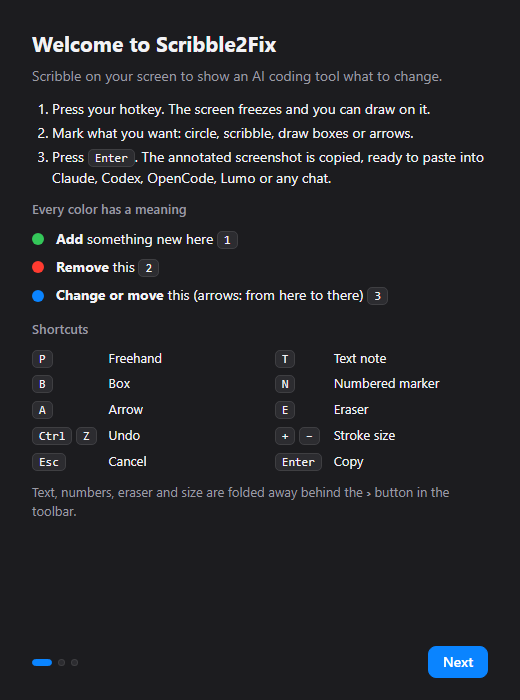
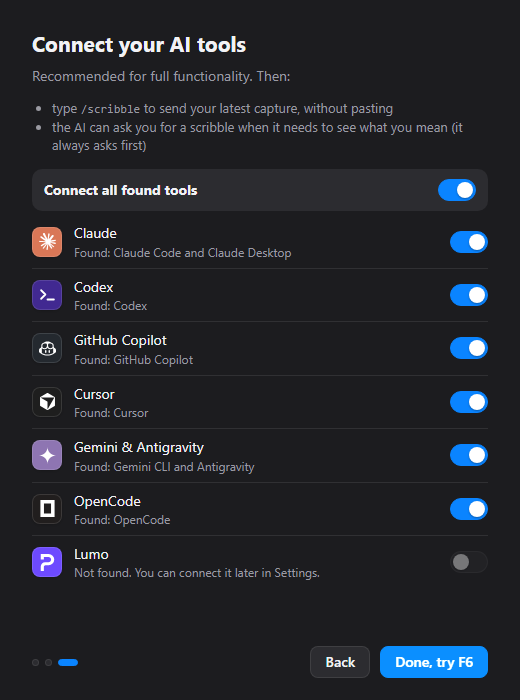
README: images for 1.1.0 (request card, onboarding tools, demo) [skip ci]

diff --git a/docs/mockups/chat.html b/docs/mockups/chat.html
@@ -42,7 +42,7 @@
       <div class="ai">Which buttons do you mean, and where should they go? I can open Scribble2Fix so you can just mark it. OK?</div>
       <div class="you">yes</div>
       <div class="tool"><b>scribble2fix</b> · request_scribble <span class="dim">("Mark the buttons you mean")</span>
-        <div class="out">Press F6 when you're ready…
+        <div class="out">Asked you on screen · you clicked Draw now and marked it
           <div class="got">
             <img src="../images/result.png" alt="">
             <div class="marks">

diff --git a/app/ui/onboarding.html b/app/ui/onboarding.html
@@ -41,7 +41,7 @@
   <ol>
     <li>Press your hotkey. The screen freezes and you can draw on it.</li>
     <li>Mark what you want: circle, scribble, draw boxes or arrows.</li>
-    <li>Press <kbd>Enter</kbd>. The annotated screenshot is copied, ready to paste into Claude, Codex, OpenCode, Lumo or any chat.</li>
+    <li>Press <kbd>Enter</kbd>. The annotated screenshot is copied, ready to paste into your AI tool or any chat.</li>
   </ol>
   <h2>Every color has a meaning</h2>
   <div class="colors">

diff --git a/docs/mockups/render.py b/docs/mockups/render.py
@@ -5,7 +5,7 @@ as the frozen screen, then the marks are drawn with scripted mouse and
 keyboard input, exactly like a user would.
 
 Writes: overlay.png (hero), demo.gif, result.png (the real export),
-tools.png, chat.png, onboarding.png.
+tools.png, chat.png, request.png (the AI request card), onboarding.png.
 
 Usage: python docs/mockups/render.py
 Needs: pip install playwright pillow && python -m playwright install chromium
@@ -39,6 +39,8 @@ window.__TAURI__ = {
       return ctx.getImageData(0, 0, img.width, img.height).data;
     }
     if (cmd === 'finish_capture') window.__export = args;
+    // The real window disappears here: show the screen as it is underneath.
+    if (cmd === 'hide_overlay') document.getElementById('mock-screen').style.display = 'block';
     return null;
   } },
   event: { listen: async (name, cb) => { if (name === 'capture') window.__capture = cb; } },
@@ -56,10 +58,13 @@ addEventListener('DOMContentLoaded', () => {
       padding: 11px 18px 11px 14px; border-radius: 999px; color: #fff; background: rgba(30,30,34,.9); border: 1px solid rgba(255,255,255,.12);
       box-shadow: 0 6px 20px rgba(0,0,0,.3); font: 14px/1.2 system-ui, "Segoe UI", sans-serif; white-space: nowrap; }
     #mock-toast i { width: 20px; height: 20px; border-radius: 50%; background: conic-gradient(#34c759 0 33%, #ff3b30 0 66%, #0a84ff 0);
-      -webkit-mask: radial-gradient(circle, transparent 5px, #000 5.5px); }`;
+      -webkit-mask: radial-gradient(circle, transparent 5px, #000 5.5px); }
+    #mock-toast.go { animation: mock-pop .55s cubic-bezier(.2, 1.4, .35, 1) both; }
+    @keyframes mock-pop { 0% { opacity: 0; transform: translateX(-50%) translateY(14px) scale(.7); } 35% { opacity: 1; }
+      100% { opacity: 1; transform: translateX(-50%); } }`;
   document.head.append(style);
   document.body.insertAdjacentHTML('beforeend',
-    `<img id="mock-screen" src="${window.__BG}"><div id="mock-cursor"></div><div id="mock-key">F6</div><div id="mock-toast"><i></i>Sent to Claude Code, also copied</div>`);
+    `<img id="mock-screen" src="${window.__BG}"><div id="mock-cursor"></div><div id="mock-key">F6</div><div id="mock-toast"><i></i>Sent to Claude, also copied</div>`);
   addEventListener('pointermove', (e) => {
     const c = document.getElementById('mock-cursor');
     c.style.left = e.clientX + 'px';
@@ -177,6 +182,8 @@ def hero_and_demo(browser):
     scene.close()
 
     page = open_overlay(browser, bg, size)
+    # The soft white light sweep turns into hard bands in a GIF's limited palette.
+    page.add_style_tag(content="#shine, #flash { display: none !important; }")
     rec = Recorder(page)
     show(page, "mock-screen")  # the screen as it is before the overlay opens
     rec.hold(700)
@@ -222,7 +229,9 @@ def hero_and_demo(browser):
     page.wait_for_function("!!window.__export")
     show(page, "mock-screen")
     show(page, "mock-toast")
-    rec.snap()
+    page.evaluate("document.getElementById('mock-toast').classList.add('go')")
+    for _ in range(6):
+        rec.snap()
 
     (OUT / "overlay.png").write_bytes(hero)
     export_png = base64.b64decode(page.evaluate("window.__export.annotated"))
@@ -272,12 +281,57 @@ def static_pages(browser):
     page.screenshot(path=str(OUT / "chat.png"))
     page.close()
 
-    # The real onboarding window, dark mode, with the stubbed Tauri API.
+    # The real onboarding window, dark mode, with the stubbed Tauri API, on
+    # the step where the AI tools get connected.
     page = browser.new_page(viewport={"width": 520, "height": 700}, color_scheme="dark")
     page.add_init_script(path=str(HERE / "tauri-stub.js"))
     page.goto(url(UI / "onboarding.html") + "?w=520&h=700")
-    page.wait_for_timeout(400)
+    page.wait_for_timeout(300)
+    page.click("#next")
+    page.click("#next")
+    page.wait_for_timeout(300)
     page.screenshot(path=str(OUT / "onboarding.png"))
+    page.close()
+
+
+# Stand-in for the Tauri API in the request card and glow pages: keeps the
+# event handlers so the script can fire the events.
+EVENTS_STUB = """
+window.__L = {};
+window.__TAURI__ = { core: { invoke: async () => null },
+  event: { listen: async (name, cb) => { window.__L[name] = cb; } } };
+"""
+
+
+def request_card(browser):
+    """The real request card and screen frame over the example app."""
+    size = (1200, 720)
+    scene = browser.new_page(viewport={"width": size[0], "height": size[1]})
+    scene.goto(url(HERE / "scene.html"))
+    bg = scene.screenshot()
+    scene.close()
+
+    page = browser.new_page(viewport={"width": size[0], "height": size[1]})
+    page.add_init_script(EVENTS_STUB)
+    build = HERE / "build"
+    build.mkdir(exist_ok=True)
+    (build / "bg.png").write_bytes(bg)
+    scene_file = build / "request-scene.html"
+    scene_file.write_text(f"""<!doctype html><html><body style="margin:0;overflow:hidden">
+      <img src="bg.png" style="position:fixed;inset:0;width:100%;height:100%">
+      <iframe id="glow" src="{url(UI / 'glow.html')}" style="position:fixed;inset:0;width:100%;height:100%;border:0;background:transparent" allowtransparency></iframe>
+      <iframe id="card" src="{url(UI / 'request.html')}" style="position:fixed;top:0;left:{(size[0] - 520) // 2}px;width:520px;height:210px;border:0;background:transparent" allowtransparency></iframe>
+    </body></html>""", encoding="utf-8")
+    page.goto(url(scene_file))
+    frames = {f.url.rsplit("/", 1)[-1]: f for f in page.frames}
+    glow, card = frames["glow.html"], frames["request.html"]
+    glow.wait_for_function("!!window.__L.glow")
+    card.wait_for_function("!!window.__L.request")
+    glow.evaluate("window.__L.glow({ payload: true })")
+    card.evaluate("""window.__L.request({ payload: { id: 'a', client: 'Claude', hotkey: 'F6', sound: false,
+      reason: 'Mark the buttons you mean', expiresAt: Date.now() + 9 * 60000 + 41000 } })""")
+    page.wait_for_timeout(1200)
+    page.screenshot(path=str(OUT / "request.png"))
     page.close()
 
 
@@ -288,6 +342,7 @@ def main():
         hero_and_demo(browser)
         tools(browser)
         static_pages(browser)
+        request_card(browser)
         browser.close()
     for f in sorted(OUT.iterdir()):
         print(f"{f.name:16} {f.stat().st_size // 1024:6} KB")

diff --git a/README.md b/README.md
@@ -168,6 +168,10 @@ Start a new session after connecting. Then:
 - **The AI can ask for a scribble.** It asks in the chat first. If you agree, a card with its question drops in at the top of your screen, with a soft chime and a glowing frame (Scribble2Fix starts by itself if it isn't running). Click **Draw now** or press your hotkey, draw, press **Enter**, and the AI continues. **Not now** tells the AI you declined. The chime can be turned off in Settings.
 - **Several at once**: make a few scribbles in a row and say *"apply my last 3 scribbles"*.
 
+<div align="center">
+<img src="docs/images/request.png" alt="When the AI asks for a scribble: a card with its question at the top of the screen and a frame in the three mark colors" width="800">
+</div>
+
 **Connect by hand**: if the automatic setup can't find your tool, or you use another MCP client, follow [docs/manual-setup.md](docs/manual-setup.md). It has the settings for any MCP client and step-by-step setups for Claude, Codex, Copilot, Cursor, Gemini, Antigravity, OpenCode, Lumo and more.
 
 ## Install
@@ -231,7 +235,7 @@ A short welcome explains the basics, lets you pick your hotkey and connects the 
 </td>
 <td width="38%" align="center" valign="middle">
 
-<img src="docs/images/onboarding.png" alt="The welcome screen" width="290">
+<img src="docs/images/onboarding.png" alt="Connecting the AI tools in the welcome screen" width="290">
 
 </td>
 </tr>
